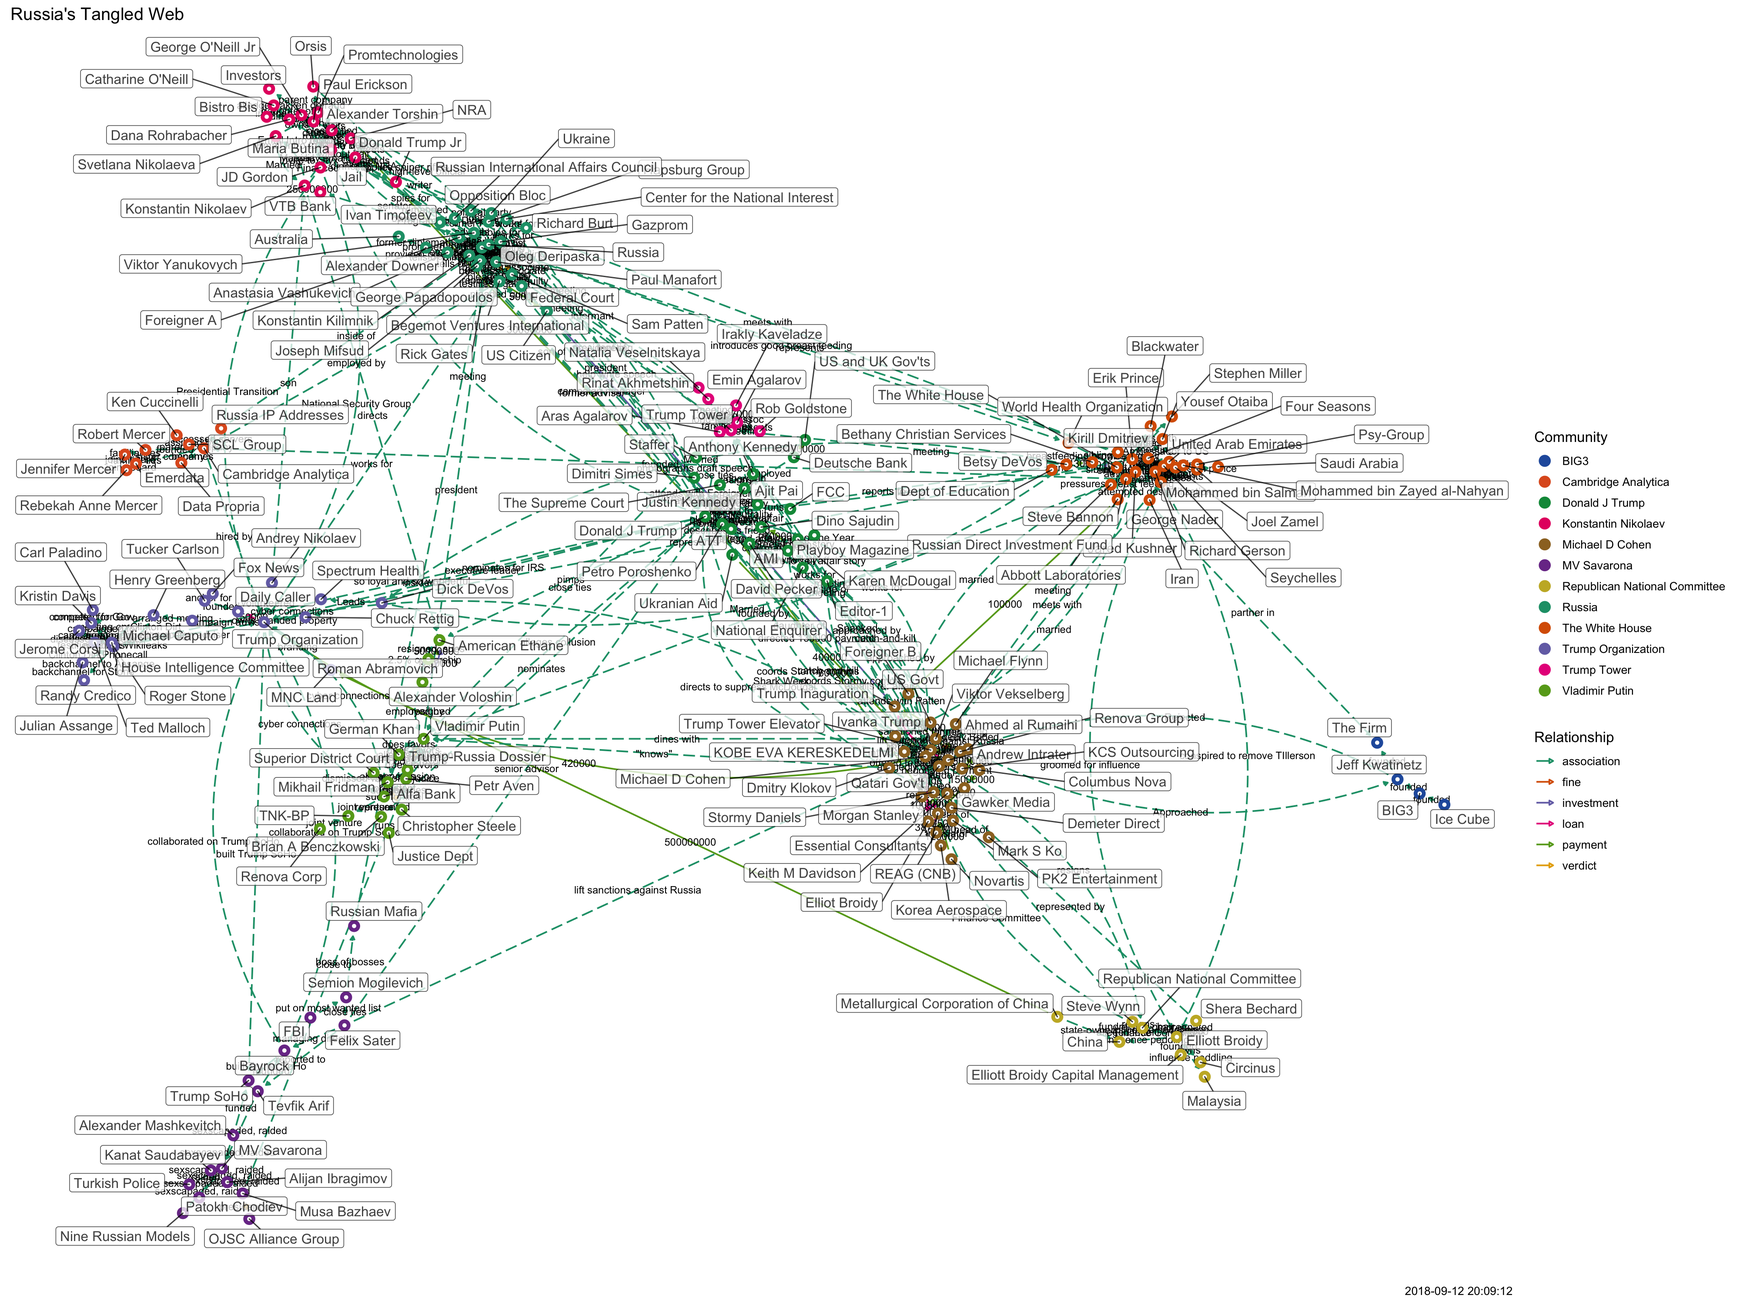
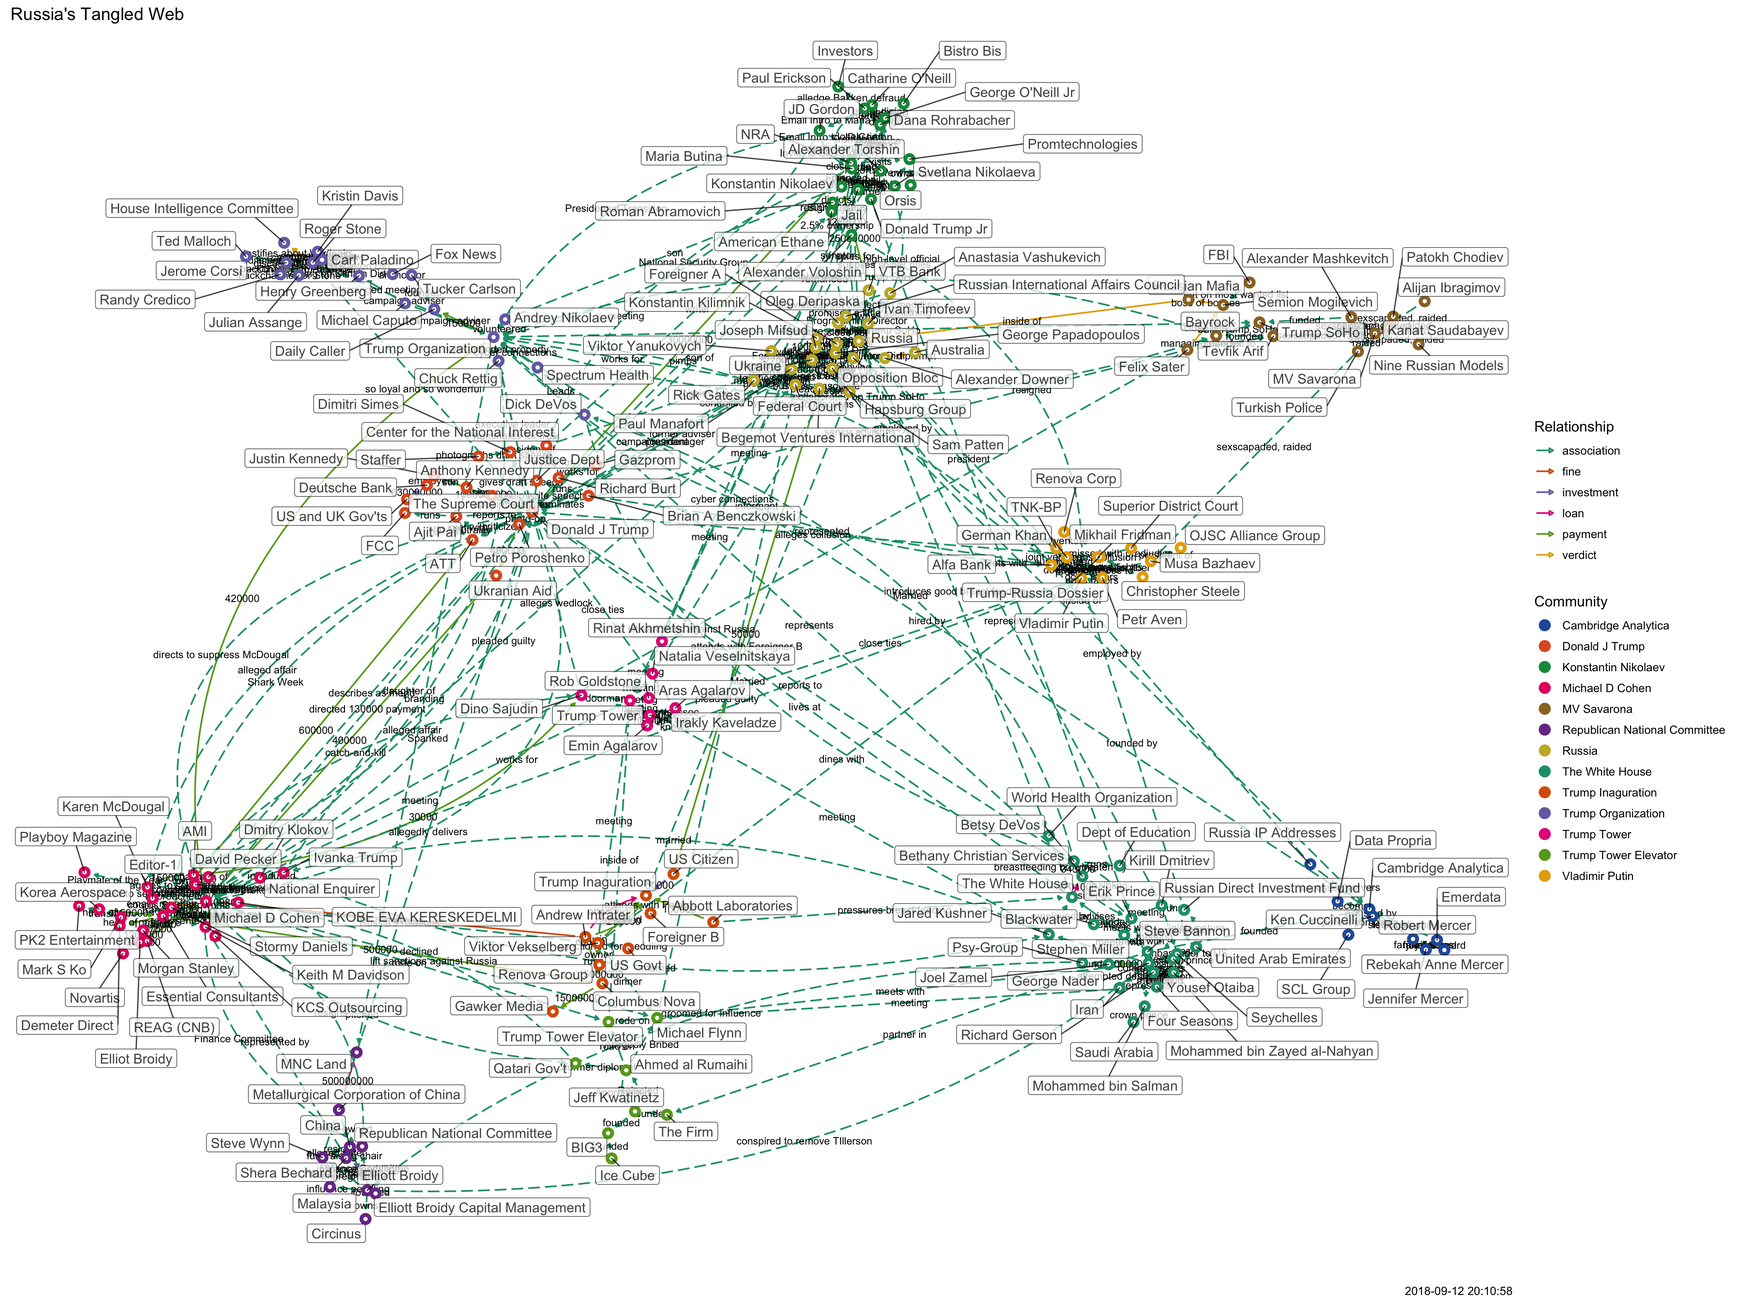
updated

Changed region(s): [[0.0, 0.031, 0.9688, 0.961], [0.4375, 0.868, 0.4688, 0.899]]

diff --git a/docs/tangled-d3.html b/docs/tangled-d3.html
@@ -1143,11 +1143,11 @@ return function(){for(var n=0,e=0;e<t;++e)n+=Math.random();return n}},um=functio
 </head>
 <body style="background-color: white;">
 <div id="htmlwidget_container">
-<div id="htmlwidget-e68d1798f946ef162aab" class="forceNetwork html-widget" style="width:960px;height:500px;">
+<div id="htmlwidget-39998aea735e2521a5ee" class="forceNetwork html-widget" style="width:960px;height:500px;">
 
 </div>
 </div>
-<script type="application/json" data-for="htmlwidget-e68d1798f946ef162aab">{"x":{"links":{"source":[0,1,2,2,3,4,5,6,7,8,8,9,10,11,12,12,12,13,14,15,16,17,18,19,20,21,22,23,24,24,25,26,27,28,28,29,30,31,32,33,19,3,3,34,3,34,34,3,35,19,36,34,10,10,10,19,37,37,36,19,19,38,38,38,38,37,19,39,40,40,41,42,41,41,43,40,40,44,44,44,5,43,10,13,13,13,45,45,46,46,19,47,48,48,13,49,50,51,13,13,52,53,51,54,50,13,13,49,51,7,7,7,28,18,23,23,19,34,34,55,56,56,56,56,13,53,39,43,57,57,46,46,58,58,36,36,19,59,60,61,60,62,63,62,60,62,62,49,45,64,65,65,32,22,62,60,37,66,19,67,14,68,37,0,69,70,37,1,1,71,26,72,37,72,73,74,75,63,63,63,76,28,77,78,78,79,37,79,79,80,79,81,80,49,49,80,80,80,79,82,81,83,83,64,84,10,85,59,86,86,86,81,81,86,87,87,88,88,89,90,90,21,87,91,70,92,93,94,92,94,10,10,10,95,95,95,96,97,22,34,37,98,99,99,99,99,39,19,37,100,101,102,19,19,103,100,2,19,37,100,37,100,103,2,104,104,36,101,103,105,105,106,107,108,105,19,73,74,75,109,76,73,110,111,111,111,112,113,62,113,114,113,115,115,113,113,60,113,116,113,43,117,77,118,119,120,121,120,121,122,122,122,123,124,125,126,126,7,127,128,128,129,128,51,128,51,130,129,131,13,132,94,132,133,94,94,94,134,135,94,136,137,138,139,37,79,140,141,141,141,142,122,143,144,144,145,105,146,147,28,28,146,148,145,149,147,150,151,152,153,152,152,105,81,81,79,79,79,154,155,155,4,4,11,154],"target":[156,71,104,100,156,11,12,31,157,12,158,24,85,155,159,160,36,50,37,19,19,12,161,9,12,37,62,29,12,36,8,71,157,162,19,19,68,156,62,87,12,8,19,25,34,3,156,156,34,37,59,63,163,164,165,160,27,36,37,28,163,159,166,19,17,28,55,55,55,41,40,167,168,167,168,47,39,5,37,169,44,27,13,10,43,45,27,46,45,37,47,19,162,170,51,51,51,171,53,52,172,131,54,27,173,39,174,37,7,51,175,37,161,96,37,176,177,177,19,177,130,53,13,178,178,178,178,178,178,131,19,58,19,63,59,19,59,19,61,176,62,70,70,37,70,179,177,177,177,177,177,70,176,70,60,22,66,28,163,180,67,14,180,27,27,69,71,63,63,1,71,76,72,181,63,63,63,73,74,75,28,76,28,77,70,37,79,70,80,70,81,79,49,80,21,21,70,84,84,84,84,84,82,82,182,85,59,19,79,28,28,79,86,79,79,88,87,91,70,87,28,91,71,89,33,93,94,93,28,28,96,183,95,163,37,163,95,22,97,39,5,62,62,28,98,62,98,98,19,101,102,2,101,103,2,2,19,2,19,37,100,184,37,104,37,177,101,19,19,37,107,107,108,70,19,39,76,76,76,185,185,110,111,37,63,73,73,62,113,114,176,115,113,70,77,98,6,6,156,156,77,77,186,77,77,119,119,117,117,37,98,123,124,70,28,125,7,126,77,51,129,63,70,28,130,130,131,131,129,130,94,187,133,94,37,136,134,135,94,137,137,136,140,138,138,140,70,140,37,142,70,143,188,122,70,146,146,189,189,189,146,28,190,190,190,190,190,190,190,190,63,191,145,21,192,179,49,21,177,177,4,37,63,4,11],"colour":["red","blue","red","red","red","red","red","red","red","red","blue","red","red","red","red","red","red","red","blue","red","red","red","blue","red","red","blue","blue","red","red","red","blue","blue","red","red","red","red","blue","red","red","blue","blue","blue","blue","blue","blue","blue","blue","blue","blue","blue","blue","blue","blue","blue","blue","blue","blue","blue","blue","blue","blue","blue","blue","blue","blue","blue","blue","blue","blue","blue","blue","blue","blue","blue","blue","blue","blue","blue","blue","blue","blue","blue","blue","blue","blue","blue","blue","blue","blue","blue","blue","blue","blue","blue","blue","blue","blue","blue","blue","blue","blue","blue","blue","blue","blue","blue","blue","blue","blue","blue","blue","blue","blue","blue","blue","blue","blue","blue","blue","blue","blue","blue","blue","blue","blue","blue","blue","blue","blue","blue","blue","blue","blue","blue","blue","blue","blue","blue","blue","blue","blue","blue","blue","blue","blue","blue","blue","blue","blue","blue","blue","blue","blue","blue","blue","blue","blue","blue","blue","blue","blue","blue","blue","blue","blue","blue","blue","blue","blue","blue","blue","blue","blue","blue","blue","blue","blue","blue","blue","blue","blue","blue","blue","blue","blue","blue","blue","blue","blue","blue","blue","blue","blue","blue","blue","blue","blue","blue","blue","blue","blue","blue","blue","blue","blue","blue","blue","blue","blue","blue","blue","blue","blue","blue","blue","blue","blue","blue","blue","blue","blue","blue","blue","blue","blue","blue","blue","blue","blue","blue","blue","blue","blue","blue","blue","blue","blue","blue","blue","blue","blue","blue","blue","blue","blue","blue","blue","blue","blue","blue","blue","blue","blue","blue","blue","blue","blue","blue","blue","blue","blue","blue","blue","blue","blue","blue","blue","blue","blue","blue","blue","blue","blue","blue","blue","blue","blue","blue","blue","blue","blue","blue","blue","blue","blue","blue","blue","blue","blue","blue","blue","blue","blue","blue","blue","blue","blue","blue","blue","blue","blue","blue","blue","blue","blue","blue","blue","blue","blue","blue","blue","blue","blue","blue","blue","blue","blue","blue","blue","blue","blue","blue","blue","blue","blue","blue","blue","blue","blue","blue","blue","blue","blue","blue","blue","blue","blue","blue","blue","blue","blue","blue","blue","blue","blue","blue","blue","blue","blue","blue","blue","blue","blue","blue","blue","blue","blue","blue","blue","blue","blue","blue","blue","blue","blue","blue","blue","blue","blue","blue","blue","blue","blue","blue","blue","blue","blue","blue","blue","blue","blue","blue","blue","blue","blue"]},"nodes":{"name":["Abbott Laboratories","Alexander Voloshin","AMI","Andrew Intrater","Aras Agalarov","ATT","Begemot Ventures International","Betsy DeVos","Columbus Nova","Elliot Broidy","Elliott Broidy","Emin Agalarov","Essential Consultants","George Nader","Justin Kennedy","KCS Outsourcing","KOBE EVA KERESKEDELMI","Korea Aerospace","Metallurgical Corporation of China","Michael D Cohen","Novartis","NRA","Oleg Deripaska","Petro Poroshenko","REAG (CNB)","Renova Group","Roman Abramovich","The White House","Trump Organization","Ukranian Aid","US and UK Gov'ts","US Citizen","Viktor Yanukovych","VTB Bank","Viktor Vekselberg","US Govt","Stormy Daniels","Donald J Trump","Mark S Ko","Michael Flynn","Ahmed al Rumaihi","Jeff Kwatinetz","Ice Cube","Steve Bannon","Ajit Pai","Jared Kushner","Ivanka Trump","Qatari Gov't","Tucker Carlson","Donald Trump Jr","Joel Zamel","Erik Prince","Mohammed bin Salman","Mohammed bin Zayed al-Nahyan","Stephen Miller","Trump Tower Elevator","Richard Gerson","Yousef Otaiba","Dmitry Klokov","Keith M Davidson","Konstantin Kilimnik","Hapsburg Group","Paul Manafort","Vladimir Putin","Rinat Akhmetshin","Natalia Veselnitskaya","Chuck Rettig","Anthony Kennedy","Deutsche Bank","World Health Organization","Russia","American Ethane","Brian A Benczkowski","Mikhail Fridman","German Khan","Petr Aven","Alfa Bank","Cambridge Analytica","Russia IP Addresses","Maria Butina","Alexander Torshin","Paul Erickson","Dana Rohrabacher","Catharine O'Neill","George O'Neill Jr","Shera Bechard","JD Gordon","Konstantin Nikolaev","Svetlana Nikolaeva","Orsis","Andrey Nikolaev","Promtechnologies","Michael Caputo","Henry Greenberg","Roger Stone","Steve Wynn","China","Anastasia Vashukevich","Federal Court","Rick Gates","Karen McDougal","Editor-1","National Enquirer","David Pecker","Dino Sajudin","Felix Sater","FBI","Semion Mogilevich","Russian Mafia","Renova Corp","Christopher Steele","Trump-Russia Dossier","Superior District Court","Sam Patten","Opposition Bloc","Foreigner A","Foreigner B","Robert Mercer","SCL Group","Emerdata","Jennifer Mercer","Rebekah Anne Mercer","George Papadopoulos","Ivan Timofeev","Russian International Affairs Council","Spectrum Health","Dick DeVos","Ken Cuccinelli","Kirill Dmitriev","Russian Direct Investment Fund","Seychelles","United Arab Emirates","Jerome Corsi","Ted Malloch","Randy Credico","Julian Assange","Kristin Davis","Carl Paladino","Dimitri Simes","Staffer","Center for the National Interest","Richard Burt","Gazprom","Alexander Downer","Joseph Mifsud","Tevfik Arif","Bayrock","Alexander Mashkevitch","Turkish Police","Patokh Chodiev","Kanat Saudabayev","Alijan Ibragimov","Musa Bazhaev","Nine Russian Models","Rob Goldstone","Irakly Kaveladze","Trump Inaguration","Bethany Christian Services","Gawker Media","Demeter Direct","Morgan Stanley","MNC Land","Daily Caller","Republican National Committee","Elliott Broidy Capital Management","Circinus","PK2 Entertainment","BIG3","The Firm","FCC","Fox News","Blackwater","Saudi Arabia","Psy-Group","Iran","Dept of Education","Ukraine","Trump Tower","Four Seasons","Jail","The Supreme Court","Justice Dept","Bistro Bis","Malaysia","Playboy Magazine","TNK-BP","Data Propria","House Intelligence Committee","Australia","Trump SoHo","MV Savarona","OJSC Alliance Group","Investors"],"group":["2","8","4","1","11","4","3","2","1","1","10","11","1","2","4","1","1","1","10","1","1","6","3","4","1","1","8","2","5","4","4","3","3","6","1","1","1","4","1","1","1","12","12","2","4","2","1","1","5","6","2","2","2","2","2","1","2","2","1","1","3","3","3","8","11","11","5","4","4","2","3","8","8","8","8","8","8","9","9","6","6","6","6","6","6","10","6","6","6","6","5","6","5","5","5","10","10","3","3","3","4","4","4","4","4","7","7","7","7","8","8","8","8","3","3","3","1","9","9","9","9","9","3","3","3","5","5","9","2","2","2","2","5","5","5","5","5","5","4","4","3","3","3","3","3","7","7","7","7","7","7","7","7","7","11","11","1","2","1","1","1","5","5","10","10","10","1","12","12","4","5","2","2","2","2","2","3","11","2","6","4","8","6","10","4","8","9","5","3","7","7","7","6"]},"options":{"NodeID":"name","Group":"group","colourScale":"d3.scaleOrdinal(d3.schemeCategory20);","fontSize":20,"fontFamily":"serif","clickTextSize":50,"linkDistance":50,"linkWidth":"function(d) { return Math.sqrt(d.value); }","charge":-100,"opacity":1,"zoom":true,"legend":false,"arrows":false,"nodesize":false,"radiusCalculation":" Math.sqrt(d.nodesize)+6","bounded":false,"opacityNoHover":1,"clickAction":null}},"evals":[],"jsHooks":[]}</script>
-<script type="application/htmlwidget-sizing" data-for="htmlwidget-e68d1798f946ef162aab">{"viewer":{"width":450,"height":350,"padding":10,"fill":true},"browser":{"width":960,"height":500,"padding":10,"fill":true}}</script>
+<script type="application/json" data-for="htmlwidget-39998aea735e2521a5ee">{"x":{"links":{"source":[0,1,2,2,3,4,5,6,7,8,8,9,10,11,12,12,12,13,14,15,16,17,18,19,20,21,22,23,24,24,25,26,27,28,28,29,30,31,32,33,19,3,3,34,3,34,34,3,35,19,36,34,10,10,10,19,37,37,36,19,19,38,38,38,38,37,19,39,40,40,41,42,41,41,43,40,40,44,44,44,5,43,10,13,13,13,45,45,46,46,19,47,48,48,13,49,50,51,13,13,52,53,51,54,50,13,13,49,51,7,7,7,28,18,23,23,19,34,34,55,56,56,56,56,13,53,39,43,57,57,46,46,58,58,36,36,19,59,60,61,60,62,63,62,60,62,62,49,45,64,65,65,32,22,62,60,37,66,19,67,14,68,37,0,69,70,37,1,1,71,26,72,37,72,73,74,75,63,63,63,76,28,77,78,78,79,37,79,79,80,79,81,80,49,49,80,80,80,79,82,81,83,83,64,84,10,85,59,86,86,86,81,81,86,87,87,88,88,89,90,90,21,87,91,70,92,93,94,92,94,10,10,10,95,95,95,96,97,22,34,37,98,99,99,99,99,39,19,37,100,101,102,19,19,103,100,2,19,37,100,37,100,103,2,104,104,36,101,103,105,105,106,107,108,105,19,73,74,75,109,76,73,110,111,111,111,112,113,62,113,114,113,115,115,113,113,60,113,116,113,43,117,77,118,119,120,121,120,121,122,122,122,123,124,125,126,126,7,127,128,128,129,128,51,128,51,130,129,131,13,132,94,132,133,94,94,94,134,135,94,136,137,138,139,37,79,140,141,141,141,142,122,143,144,144,145,105,146,147,28,28,146,148,145,149,147,150,151,152,153,152,152,105,81,81,79,79,79,154,155,155,4,4,11,154],"target":[156,71,104,100,156,11,12,31,157,12,158,24,85,155,159,160,36,50,37,19,19,12,161,9,12,37,62,29,12,36,8,71,157,162,19,19,68,156,62,87,12,8,19,25,34,3,156,156,34,37,59,63,163,164,165,160,27,36,37,28,163,159,166,19,17,28,55,55,55,41,40,167,168,167,168,47,39,5,37,169,44,27,13,10,43,45,27,46,45,37,47,19,162,170,51,51,51,171,53,52,172,131,54,27,173,39,174,37,7,51,175,37,161,96,37,176,177,177,19,177,130,53,13,178,178,178,178,178,178,131,19,58,19,63,59,19,59,19,61,176,62,70,70,37,70,179,177,177,177,177,177,70,176,70,60,22,66,28,163,180,67,14,180,27,27,69,71,63,63,1,71,76,72,181,63,63,63,73,74,75,28,76,28,77,70,37,79,70,80,70,81,79,49,80,21,21,70,84,84,84,84,84,82,82,182,85,59,19,79,28,28,79,86,79,79,88,87,91,70,87,28,91,71,89,33,93,94,93,28,28,96,183,95,163,37,163,95,22,97,39,5,62,62,28,98,62,98,98,19,101,102,2,101,103,2,2,19,2,19,37,100,184,37,104,37,177,101,19,19,37,107,107,108,70,19,39,76,76,76,185,185,110,111,37,63,73,73,62,113,114,176,115,113,70,77,98,6,6,156,156,77,77,186,77,77,119,119,117,117,37,98,123,124,70,28,125,7,126,77,51,129,63,70,28,130,130,131,131,129,130,94,187,133,94,37,136,134,135,94,137,137,136,140,138,138,140,70,140,37,142,70,143,188,122,70,146,146,189,189,189,146,28,190,190,190,190,190,190,190,190,63,191,145,21,192,179,49,21,177,177,4,37,63,4,11],"colour":["red","blue","red","red","red","red","red","red","red","red","blue","red","red","red","red","red","red","red","blue","red","red","red","blue","red","red","blue","blue","red","red","red","blue","blue","red","red","red","red","blue","red","red","blue","blue","blue","blue","blue","blue","blue","blue","blue","blue","blue","blue","blue","blue","blue","blue","blue","blue","blue","blue","blue","blue","blue","blue","blue","blue","blue","blue","blue","blue","blue","blue","blue","blue","blue","blue","blue","blue","blue","blue","blue","blue","blue","blue","blue","blue","blue","blue","blue","blue","blue","blue","blue","blue","blue","blue","blue","blue","blue","blue","blue","blue","blue","blue","blue","blue","blue","blue","blue","blue","blue","blue","blue","blue","blue","blue","blue","blue","blue","blue","blue","blue","blue","blue","blue","blue","blue","blue","blue","blue","blue","blue","blue","blue","blue","blue","blue","blue","blue","blue","blue","blue","blue","blue","blue","blue","blue","blue","blue","blue","blue","blue","blue","blue","blue","blue","blue","blue","blue","blue","blue","blue","blue","blue","blue","blue","blue","blue","blue","blue","blue","blue","blue","blue","blue","blue","blue","blue","blue","blue","blue","blue","blue","blue","blue","blue","blue","blue","blue","blue","blue","blue","blue","blue","blue","blue","blue","blue","blue","blue","blue","blue","blue","blue","blue","blue","blue","blue","blue","blue","blue","blue","blue","blue","blue","blue","blue","blue","blue","blue","blue","blue","blue","blue","blue","blue","blue","blue","blue","blue","blue","blue","blue","blue","blue","blue","blue","blue","blue","blue","blue","blue","blue","blue","blue","blue","blue","blue","blue","blue","blue","blue","blue","blue","blue","blue","blue","blue","blue","blue","blue","blue","blue","blue","blue","blue","blue","blue","blue","blue","blue","blue","blue","blue","blue","blue","blue","blue","blue","blue","blue","blue","blue","blue","blue","blue","blue","blue","blue","blue","blue","blue","blue","blue","blue","blue","blue","blue","blue","blue","blue","blue","blue","blue","blue","blue","blue","blue","blue","blue","blue","blue","blue","blue","blue","blue","blue","blue","blue","blue","blue","blue","blue","blue","blue","blue","blue","blue","blue","blue","blue","blue","blue","blue","blue","blue","blue","blue","blue","blue","blue","blue","blue","blue","blue","blue","blue","blue","blue","blue","blue","blue","blue","blue","blue","blue","blue","blue","blue","blue","blue","blue","blue","blue","blue","blue","blue","blue","blue","blue","blue","blue","blue","blue","blue","blue","blue","blue","blue","blue","blue","blue","blue","blue","blue","blue"]},"nodes":{"name":["Abbott Laboratories","Alexander Voloshin","AMI","Andrew Intrater","Aras Agalarov","ATT","Begemot Ventures International","Betsy DeVos","Columbus Nova","Elliot Broidy","Elliott Broidy","Emin Agalarov","Essential Consultants","George Nader","Justin Kennedy","KCS Outsourcing","KOBE EVA KERESKEDELMI","Korea Aerospace","Metallurgical Corporation of China","Michael D Cohen","Novartis","NRA","Oleg Deripaska","Petro Poroshenko","REAG (CNB)","Renova Group","Roman Abramovich","The White House","Trump Organization","Ukranian Aid","US and UK Gov'ts","US Citizen","Viktor Yanukovych","VTB Bank","Viktor Vekselberg","US Govt","Stormy Daniels","Donald J Trump","Mark S Ko","Michael Flynn","Ahmed al Rumaihi","Jeff Kwatinetz","Ice Cube","Steve Bannon","Ajit Pai","Jared Kushner","Ivanka Trump","Qatari Gov't","Tucker Carlson","Donald Trump Jr","Joel Zamel","Erik Prince","Mohammed bin Salman","Mohammed bin Zayed al-Nahyan","Stephen Miller","Trump Tower Elevator","Richard Gerson","Yousef Otaiba","Dmitry Klokov","Keith M Davidson","Konstantin Kilimnik","Hapsburg Group","Paul Manafort","Vladimir Putin","Rinat Akhmetshin","Natalia Veselnitskaya","Chuck Rettig","Anthony Kennedy","Deutsche Bank","World Health Organization","Russia","American Ethane","Brian A Benczkowski","Mikhail Fridman","German Khan","Petr Aven","Alfa Bank","Cambridge Analytica","Russia IP Addresses","Maria Butina","Alexander Torshin","Paul Erickson","Dana Rohrabacher","Catharine O'Neill","George O'Neill Jr","Shera Bechard","JD Gordon","Konstantin Nikolaev","Svetlana Nikolaeva","Orsis","Andrey Nikolaev","Promtechnologies","Michael Caputo","Henry Greenberg","Roger Stone","Steve Wynn","China","Anastasia Vashukevich","Federal Court","Rick Gates","Karen McDougal","Editor-1","National Enquirer","David Pecker","Dino Sajudin","Felix Sater","FBI","Semion Mogilevich","Russian Mafia","Renova Corp","Christopher Steele","Trump-Russia Dossier","Superior District Court","Sam Patten","Opposition Bloc","Foreigner A","Foreigner B","Robert Mercer","SCL Group","Emerdata","Jennifer Mercer","Rebekah Anne Mercer","George Papadopoulos","Ivan Timofeev","Russian International Affairs Council","Spectrum Health","Dick DeVos","Ken Cuccinelli","Kirill Dmitriev","Russian Direct Investment Fund","Seychelles","United Arab Emirates","Jerome Corsi","Ted Malloch","Randy Credico","Julian Assange","Kristin Davis","Carl Paladino","Dimitri Simes","Staffer","Center for the National Interest","Richard Burt","Gazprom","Alexander Downer","Joseph Mifsud","Tevfik Arif","Bayrock","Alexander Mashkevitch","Turkish Police","Patokh Chodiev","Kanat Saudabayev","Alijan Ibragimov","Musa Bazhaev","Nine Russian Models","Rob Goldstone","Irakly Kaveladze","Trump Inaguration","Bethany Christian Services","Gawker Media","Demeter Direct","Morgan Stanley","MNC Land","Daily Caller","Republican National Committee","Elliott Broidy Capital Management","Circinus","PK2 Entertainment","BIG3","The Firm","FCC","Fox News","Blackwater","Saudi Arabia","Psy-Group","Iran","Dept of Education","Ukraine","Trump Tower","Four Seasons","Jail","The Supreme Court","Justice Dept","Bistro Bis","Malaysia","Playboy Magazine","TNK-BP","Data Propria","House Intelligence Committee","Australia","Trump SoHo","MV Savarona","OJSC Alliance Group","Investors"],"group":["9","4","2","9","12","6","3","1","9","2","10","12","2","1","6","2","2","2","10","2","2","4","3","6","2","9","4","1","5","6","6","9","3","3","9","9","2","6","2","13","13","13","13","1","6","1","2","13","5","4","1","1","1","1","1","13","1","1","2","2","3","3","3","8","12","12","5","6","6","1","3","4","6","8","8","8","8","11","11","4","4","4","4","4","4","10","4","4","4","4","5","4","5","5","5","10","10","3","3","3","2","2","2","2","12","7","7","7","7","8","8","8","8","3","3","3","9","11","11","11","11","11","3","3","3","5","5","11","1","1","1","1","5","5","5","5","5","5","6","6","6","6","6","3","3","7","7","7","7","7","7","7","8","7","12","12","9","1","9","2","2","10","5","10","10","10","2","13","13","6","5","1","1","1","1","1","3","12","1","4","6","6","4","10","2","8","11","5","3","7","7","8","4"]},"options":{"NodeID":"name","Group":"group","colourScale":"d3.scaleOrdinal(d3.schemeCategory20);","fontSize":20,"fontFamily":"serif","clickTextSize":50,"linkDistance":50,"linkWidth":"function(d) { return Math.sqrt(d.value); }","charge":-100,"opacity":1,"zoom":true,"legend":false,"arrows":false,"nodesize":false,"radiusCalculation":" Math.sqrt(d.nodesize)+6","bounded":false,"opacityNoHover":1,"clickAction":null}},"evals":[],"jsHooks":[]}</script>
+<script type="application/htmlwidget-sizing" data-for="htmlwidget-39998aea735e2521a5ee">{"viewer":{"width":450,"height":350,"padding":10,"fill":true},"browser":{"width":960,"height":500,"padding":10,"fill":true}}</script>
 </body>
 </html>
